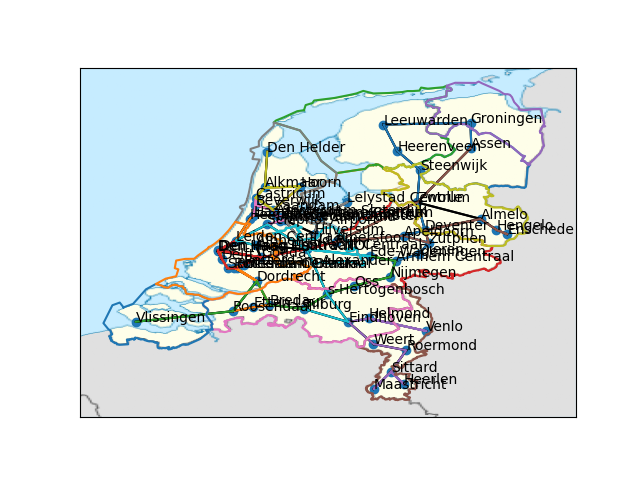
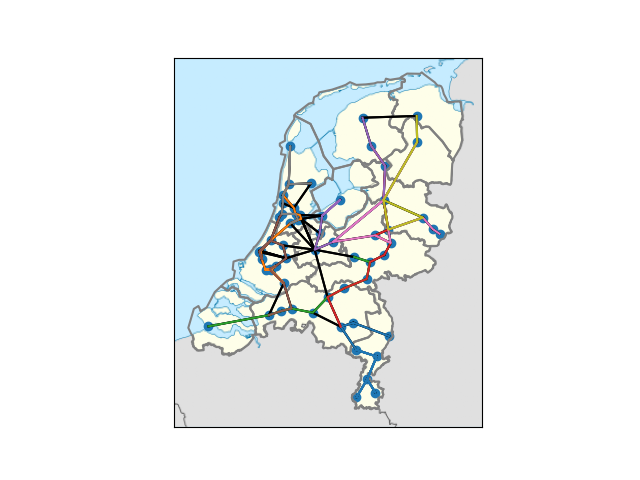
changed size of produced figure

diff --git a/program/visualisation.py b/program/visualisation.py
@@ -1,6 +1,8 @@
 import matplotlib.pyplot as plt
 import geopandas as gpd
-import contextily as cx
+from matplotlib.pyplot import figure
+
+
 
 from .network_graph import Network
 
@@ -22,7 +24,15 @@ def visualize(network, trains, which_region = 'holland'):
 
     img = plt.imread("data/map.png")
     fix, ax = plt.subplots()
-    ax.imshow(img, extent=[3.1, 7.5, 50.6, 53.7])
+    ax.imshow(img, extent=[3.1, 7.5, 50.6, 53.7], aspect=1.7)
+
+    # loading file of boarders of Holland
+    df_places = gpd.read_file(geo_json_file)
+
+    # looping through regions in the data file and plotting them in a matplotlib graph
+    for polygon in df_places['geometry']:
+        x,y = polygon.exterior.xy
+        plt.plot(x,y, color = 'grey')
 
     # PLOT ALL CONNECTIONS   
     # loop through all stations in the network_graph
@@ -44,14 +54,6 @@ def visualize(network, trains, which_region = 'holland'):
             # plot connections between all stations
             plt.plot(x_line, y_line, color = 'black')
     
-    # unzip the tuples and plot them
-    x,y = zip(*coords)
-    plt.scatter(x, y)
-
-    # add names of the stations to the points
-    for index, label in enumerate(names):
-        plt.annotate(label,(x[index], y[index]))
-    
     #hide axes
     ax = plt.gca()
     ax.get_yaxis().set_visible(False)
@@ -72,15 +74,15 @@ def visualize(network, trains, which_region = 'holland'):
             y_traj.append(station_coords[1])
         # plot the trajectory
         plt.plot(x_traj, y_traj)
+    
+    # # add names of the stations to the points
+    # for index, label in enumerate(names):
+    #     plt.annotate(label,(x[index], y[index]))
+
+    # unzip the tuples and plot them
+    x,y = zip(*coords)
+    plt.scatter(x, y)
         
-    # loading file of boarders of Holland
-    df_places = gpd.read_file(geo_json_file)
-
-    # looping through regions in the data file and plotting them in a matplotlib graph
-    for polygon in df_places['geometry']:
-        x,y = polygon.exterior.xy
-        plt.plot(x,y)
-
     # save plot
     plt.savefig(save_plot)
 
